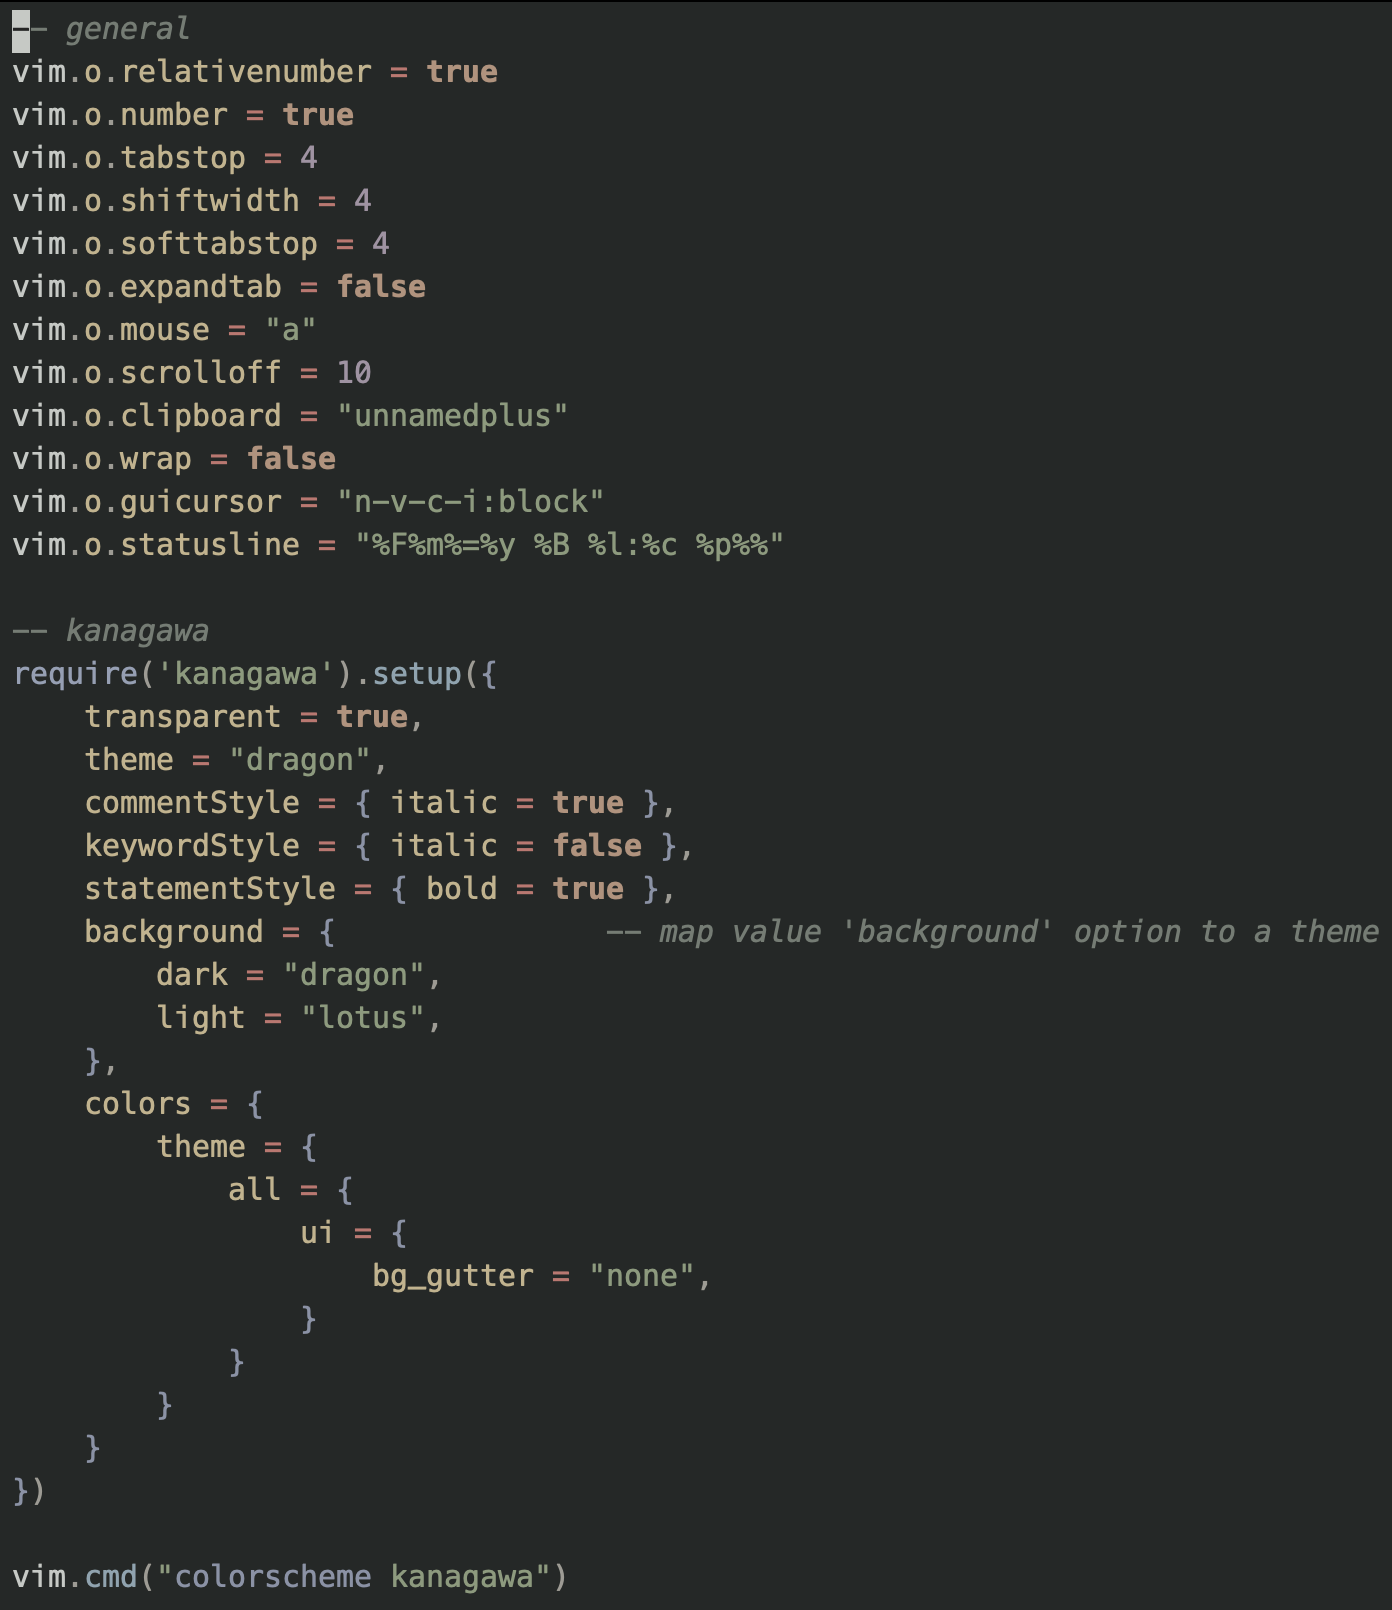
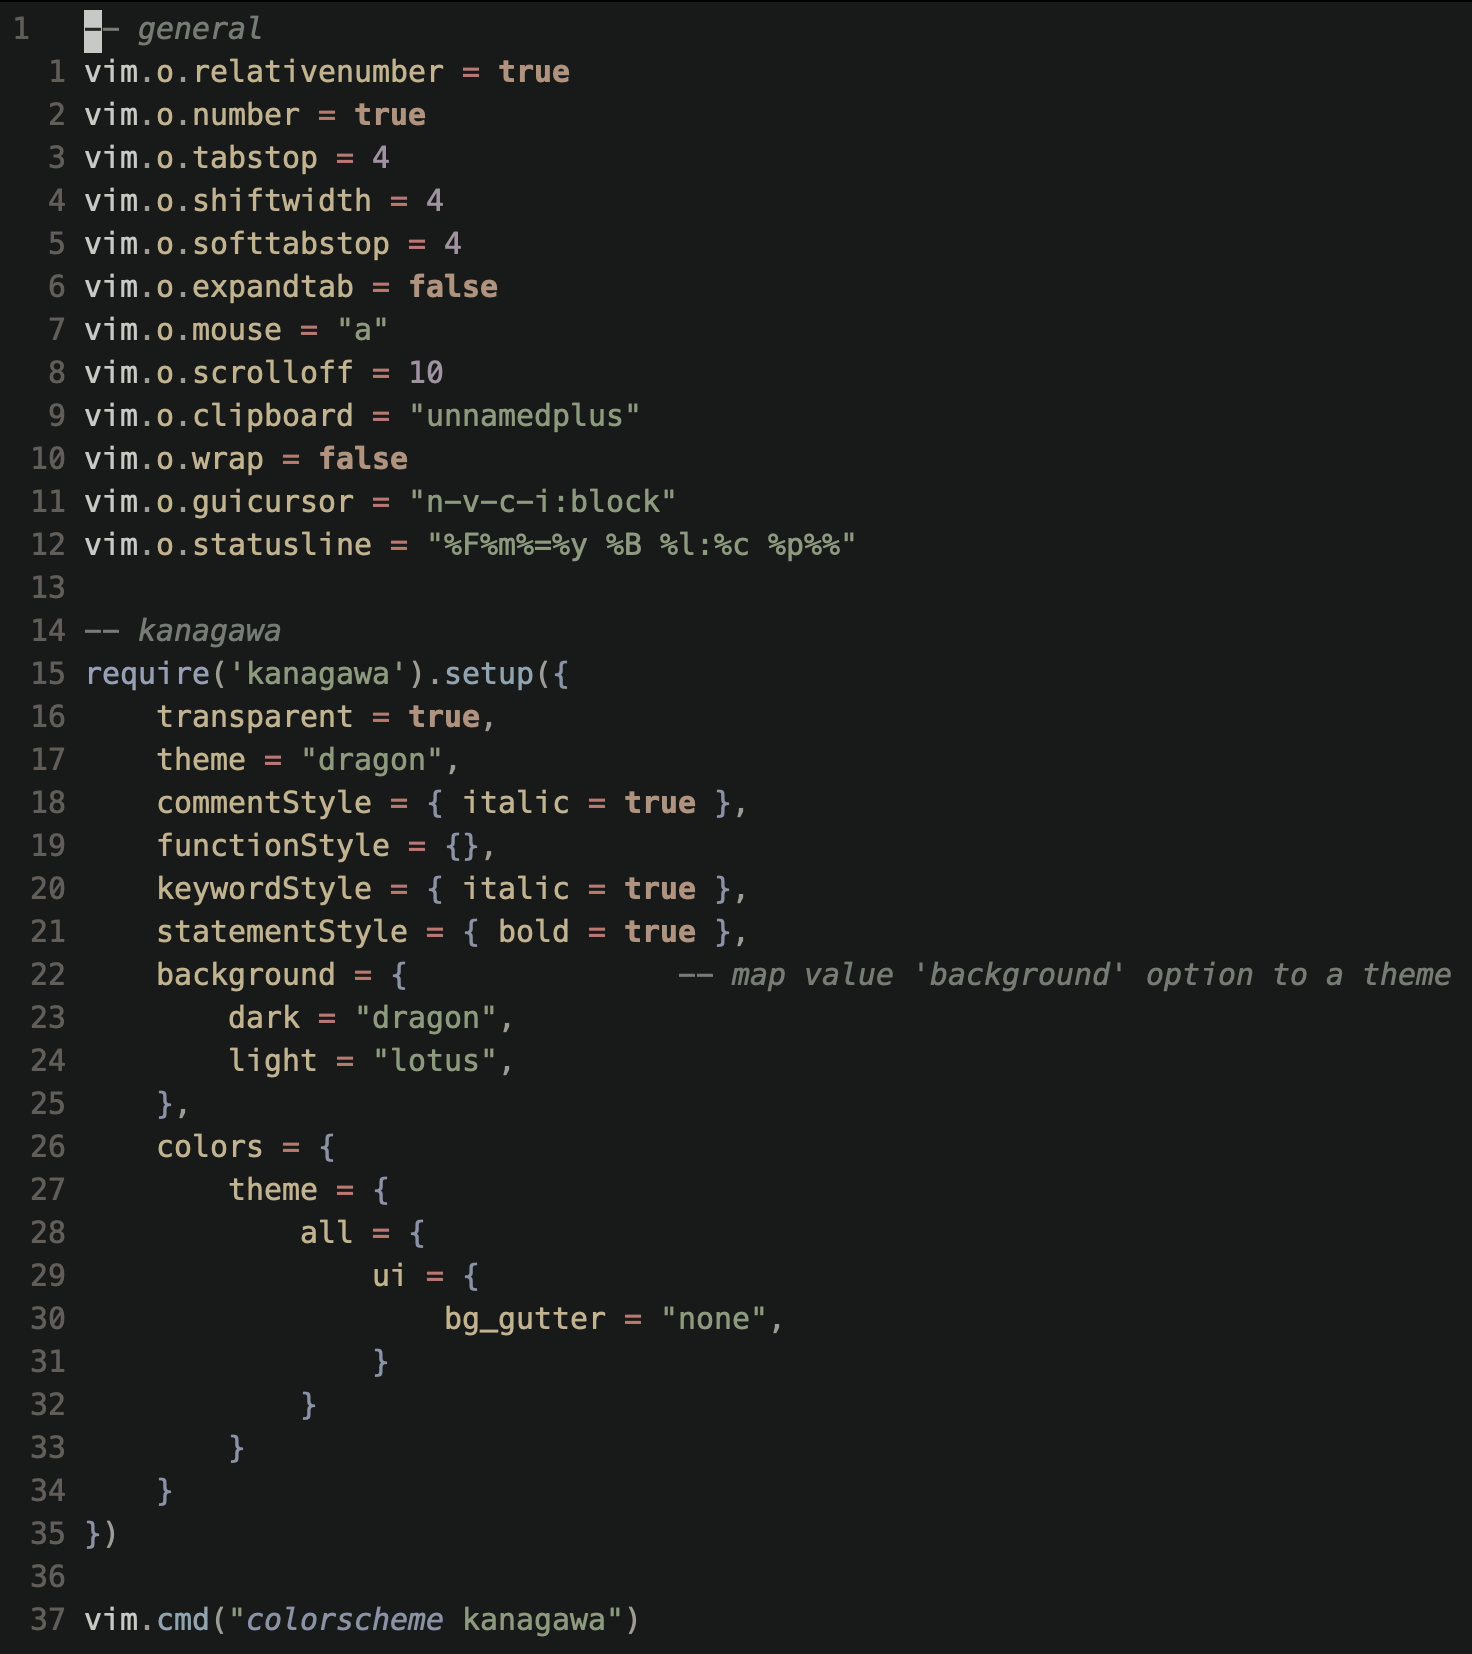
update README and screenshot

diff --git a/README.md b/README.md
@@ -9,10 +9,11 @@
 - remove Arabic, Armenian, Georgian, and Lao scripts
 - remove bottom serifs from `i`, extend top-left serif, shift right for optical balance
 - enlarged, vertically-centered `*`
-- increase gap and widen `=`
+- increase gap `=` bars
 - small centering tweaks for `+`
 - widen `-`, decrease thickness to match `+`
 - vertically center `~`
-- raise `_` to just-below baseline, optically horizontally center for oblique
+- raise `_` to just-below baseline, optically center for oblique
 - standardize tiny inconsistencies and misalignments in `.`, `,`, `:`, and `;`
 - slashed `0`
+- slightly lower `l` ascender to match other ascenders